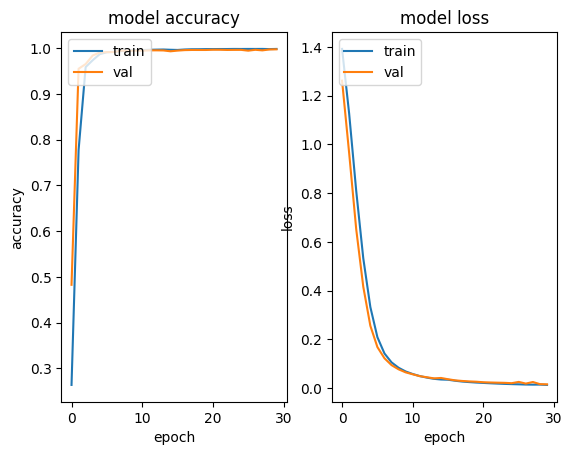
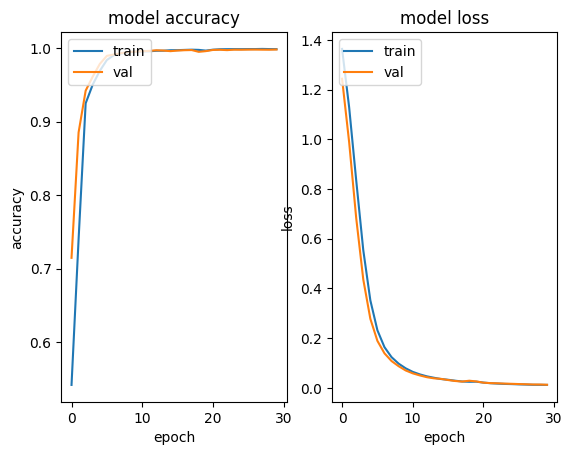
Sequence to Sequence with Teacher Forcing: results

diff --git a/neural_networks/recurrent/seq2label.py b/neural_networks/recurrent/seq2label.py
@@ -7,6 +7,7 @@ from keras.callbacks import EarlyStopping
 from keras.layers import Dense, LSTM, GRU, Dropout # create model
 from sklearn.metrics import ConfusionMatrixDisplay
 from sklearn.metrics import confusion_matrix
+from keras.utils.vis_utils import plot_model
 from sklearn.model_selection import train_test_split
 
 from config.definitions import ROOT_DIR
@@ -17,6 +18,10 @@ from neural_networks.utils import plot_confusion_matrix_percentage
 
 if __name__ == '__main__':
     include_time = False
+    params = 12
+    time_steps = 50
+    batch_size = 64
+    epochs = 40
 
     sorted_data_for_learning = SortedDataForLearning(
         path=ROOT_DIR + "/data_storage/data/raw_learning_data/user_splitted_data/")
@@ -33,11 +38,8 @@ if __name__ == '__main__':
     x_test = np.reshape(test_data[:, :-1], (n_test, 50, 13))
     y_test = to_categorical(test_data[:, -1])
 
-    params = 13
-    if not include_time:
-        x_train = x_train[:, :, 1:]
-        x_test = x_test[:, :, 1:]
-        params = 12
+    x_train = x_train[:, :, 1:]
+    x_test = x_test[:, :, 1:]
 
     print(x_train.shape)
     print(x_test.shape)
@@ -45,21 +47,22 @@ if __name__ == '__main__':
     print(y_test.shape)
 
     model = Sequential()
-    model.add(GRU(64, input_shape=(50, params), return_sequences=True))
+    model.add(LSTM(16, input_shape=(time_steps, params), return_sequences=True))
     # model.add(LSTM(64, input_shape=(50, 13)))
-    Dropout(0.2)
-    model.add(GRU(64))
+    # Dropout(0.2)
+    model.add(LSTM(16))
     model.add(Dense(4, activation="softmax"))
 
     model.compile(optimizer='adam', loss='categorical_crossentropy', metrics=['accuracy'])
     # model.compile(optimizer='adam', loss='mean_absolute_error', metrics=['accuracy'])
 
     model.summary()
+    plot_model(model, to_file="seq2label/model.png", show_shapes=True)
 
     callback = EarlyStopping(monitor='val_loss', patience=10)
 
-    fit_history = model.fit(x=x_train, y=y_train, validation_split=validation_split, epochs=40, shuffle=True,
-                            callbacks=[callback])
+    fit_history = model.fit(x=x_train, y=y_train, validation_split=validation_split, batch_size=batch_size, epochs=epochs,
+                            shuffle=True, callbacks=[callback], verbose=2)
 
     fig = plt.figure()
 
@@ -80,15 +83,12 @@ if __name__ == '__main__':
     plt.legend(['train', 'val'], loc='upper left')
 
     plt.show()
+    plt.savefig(ROOT_DIR + "/neural_networks/recurrent/seq2label/training_curves.png", bbox_inches='tight')
 
     predicted_values = model.predict(x_test)
 
     results = np.argmax(predicted_values, axis=1, out=None)
     y_results = np.argmax(y_test, axis=1, out=None)
-
-    # plt.scatter(range(results.shape[0]), results, color='r')
-    # plt.scatter(range(results.shape[0]), y_results, color='g')
-    # plt.show()
 
     print("y_results")
     print(y_results)
@@ -98,3 +98,20 @@ if __name__ == '__main__':
     cm = confusion_matrix(y_true=y_results, y_pred=results)
     print("cm")
     print(cm)
+
+    labels = ['PULL', 'PUSH', 'SHAKE', 'TWIST']
+    n_labels = len(labels)
+    blues = plt.cm.Blues
+    disp = ConfusionMatrixDisplay(confusion_matrix=cm, display_labels=labels)
+    disp.plot(cmap=blues)
+
+    # plt.show()
+    plt.savefig(ROOT_DIR + "/neural_networks/recurrent/seq2label/confusion_matrix.png", bbox_inches='tight')
+    # soma = (cm.astype(float).sum(axis=1)).all()
+    # if soma != 0:
+    cm_true = cm / cm.astype(float).sum(axis=1)
+    cm_true_percentage = cm_true * 100
+    plot_confusion_matrix_percentage(confusion_matrix=cm_true_percentage, display_labels=labels, cmap=blues,
+                                     title="Confusion Matrix (%) - Seq-To-Label")
+    # plt.show()
+    plt.savefig(ROOT_DIR + "/neural_networks/recurrent/seq2label/confusion_matrix_true.png", bbox_inches='tight')

diff --git a/neural_networks/recurrent/seq2seq.py b/neural_networks/recurrent/seq2seq.py
@@ -53,6 +53,8 @@ def decode_sequence(input_seq, sn, output_dim, o_labels, ei, es, di, dlstm, dd):
 
     encoder_model = Model(ei, es)
 
+    plot_model(encoder_model, to_file="seq2seq/testing_model_1.png", show_shapes=True)
+
     decoder_state_input_h = Input(shape=(output_dim,))
     decoder_state_input_c = Input(shape=(output_dim,))
     decoder_states_inputs = [decoder_state_input_h, decoder_state_input_c]
@@ -61,6 +63,7 @@ def decode_sequence(input_seq, sn, output_dim, o_labels, ei, es, di, dlstm, dd):
     decoder_states = [state_h, state_c]
     decoder_outputs = dd(decoder_outputs)
     decoder_model = Model([di] + decoder_states_inputs, [decoder_outputs] + decoder_states)
+    plot_model(decoder_model, to_file="seq2seq/testing_model_2.png", show_shapes=True)
 
     # Encode the input as state vectors.
     states_value = encoder_model.predict(input_seq)
@@ -116,7 +119,7 @@ if __name__ == '__main__':
     params = 12
     labels = 4
     start_number = 17
-    epochs = 30
+    epochs = 40
 
     # sorted_data_for_learning = SortedDataForLearning(
     #     path=ROOT_DIR + "/data_storage/data/raw_learning_data/user_splitted_data/", config_file="training_config_rnn")
@@ -154,14 +157,14 @@ if __name__ == '__main__':
 
     training_model, e_inputs, e_states, d_inputs, d_lstm, d_dense = training_encoder_decoder(neurons, params, labels)
     training_model.summary()
-    plot_model(training_model, to_file="training_model.png", show_shapes=True)
+    plot_model(training_model, to_file="seq2seq/model.png", show_shapes=True)
 
     print(x_train.shape)
     print(x_train_decoder.shape)
     print(y_train_final.shape)
-
+    callback = EarlyStopping(monitor='val_loss', patience=10)
     fit_history = training_model.fit([x_train, x_train_decoder], y_train_final, batch_size=batch_size, epochs=epochs,
-                                     validation_split=validation_split, verbose=2)
+                                     validation_split=validation_split, shuffle=True, verbose=2, callbacks=[callback])
 
     fig = plt.figure()
 
@@ -181,9 +184,9 @@ if __name__ == '__main__':
     plt.xlabel('epoch')
     plt.legend(['train', 'val'], loc='upper left')
     #
-    # plt.show()
+    plt.show()
 
-    plt.savefig(ROOT_DIR + "/neural_networks/recurrent/training_curves.png", bbox_inches='tight')
+    plt.savefig(ROOT_DIR + "/neural_networks/recurrent/seq2seq/training_curves.png", bbox_inches='tight')
 
     x_test = np.reshape(test_data[:, :-1], (n_test, time_steps, 13))
     y_test = test_data[:, -1]
@@ -228,14 +231,18 @@ if __name__ == '__main__':
     disp.plot(cmap=blues)
 
     # plt.show()
-    plt.savefig(ROOT_DIR + "/neural_networks/recurrent/confusion_matrix.png", bbox_inches='tight')
+    plt.savefig(ROOT_DIR + "/neural_networks/recurrent/seq2seq/confusion_matrix.png", bbox_inches='tight')
     # soma = (cm.astype(float).sum(axis=1)).all()
     # if soma != 0:
     cm_true = cm / cm.astype(float).sum(axis=1)
     cm_true_percentage = cm_true * 100
     plot_confusion_matrix_percentage(confusion_matrix=cm_true_percentage, display_labels=labels, cmap=blues,
-                                     title="Confusion Matrix (%) - CONVOLUTIONAL")
+                                     title="Confusion Matrix (%) - Seq-To-Seq")
     # plt.show()
-    plt.savefig(ROOT_DIR + "/neural_networks/recurrent/confusion_matrix_true.png", bbox_inches='tight')
+    plt.savefig(ROOT_DIR + "/neural_networks/recurrent/seq2seq/confusion_matrix_true.png", bbox_inches='tight')
 
 
+    # metric_accuracy = (tp + tn) / (fp + fn + tp + tn)
+    # metric_recall = tp / (fn + tp)
+    # metric_precision = tp / (fp + tp)
+    # metric_f1 = 2 * (metric_precision * metric_recall) / (metric_precision + metric_recall)
